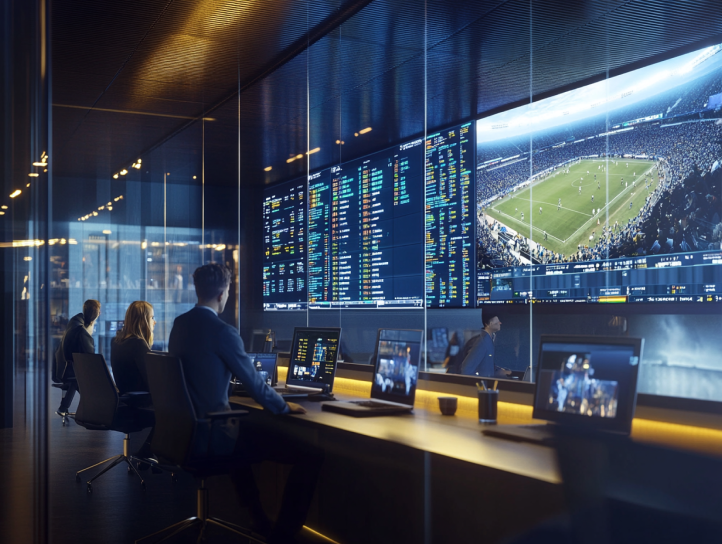
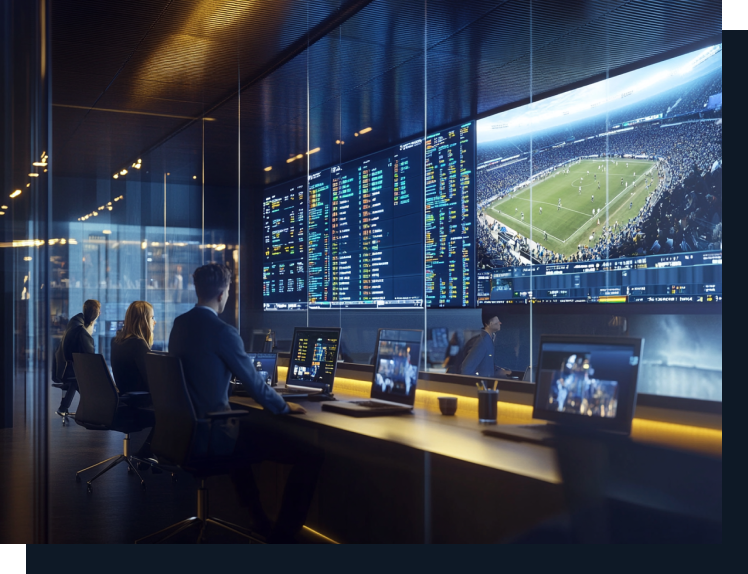
prgress

diff --git a/components/AboutUs.js b/components/AboutUs.js
@@ -231,7 +231,7 @@ const AboutUs = ({ searchParams }) => {
                     //alignItems: 'center'
                 }}>
                     <Image
-                        source={require('../assets/images/about_us2.png')}
+                        source={require('../assets/images/about_us.png')}
                         style={{
                             width: '100%',
                             maxWidth: 500,
